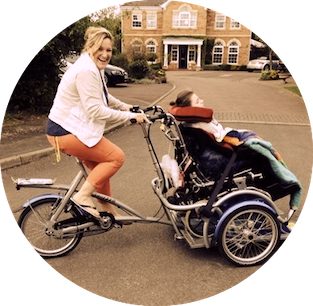
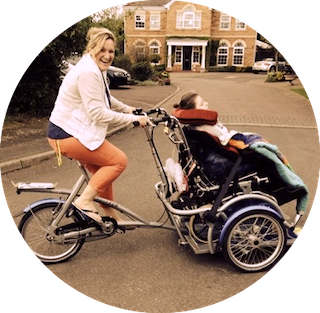
Added gatsby dynamic image handling

diff --git a/src/pages/index.js b/src/pages/index.js
@@ -1,9 +1,24 @@
 import React from "react"
 import SophieImg from "../data/images/sophie.png"
+import { graphql } from "gatsby"
+import Img from "gatsby-image"
 
-export default () => 
+export const query = graphql`
+  query {
+    file(relativePath: { eq: "sophie.png" }) {
+      childImageSharp {
+        fluid{
+          ...GatsbyImageSharpFluid_withWebp
+        }
+      }
+    }
+  }
+`
+
+export default ({ data }) => (
 <div style={{ margin: `3rem auto`, maxWidth: 600, textAlign: 'center' }}>
-    <img src={SophieImg} alt="Sophie and Jane on a Bike"></img>
+    {/* <img src={SophieImg} alt="Sophie and Jane on a Bike"></img> */}
+    <Img fluid={data.file.childImageSharp.fluid}/>
     <h1>Sophie's Ride 2019</h1>
     <p>
       The bi-annual pilgrimage to <a href="https://www.rainbows.co.uk">Rainbow's Hospice</a> will be on the 21st September 2019.
@@ -12,7 +27,7 @@ export default () =>
     <form action="/thanks" name="rider" method="post" data-netlify="true">
       <label>
         Name:&nbsp;
-        <input type="text" name="name" id="name" />
+        <input type="text" name="name" id="name" autoFocus/>
       </label>
       &nbsp;&nbsp;&nbsp;
       <label>
@@ -37,4 +52,4 @@ export default () =>
       <p>9am Sharp.</p>
 
     </p>
-  </div>
+  </div>)

diff --git a/gatsby-config.js b/gatsby-config.js
@@ -12,5 +12,14 @@ module.exports = {
         pathToConfigModule: `src/utils/typography`,
       },
     },
+    {
+      resolve: `gatsby-source-filesystem`,
+      options: {
+        name: `images`,
+        path: `${__dirname}/src/data/images`,
+      },
+    },
+    `gatsby-plugin-sharp`,
+    `gatsby-transformer-sharp`,
   ],
 }
